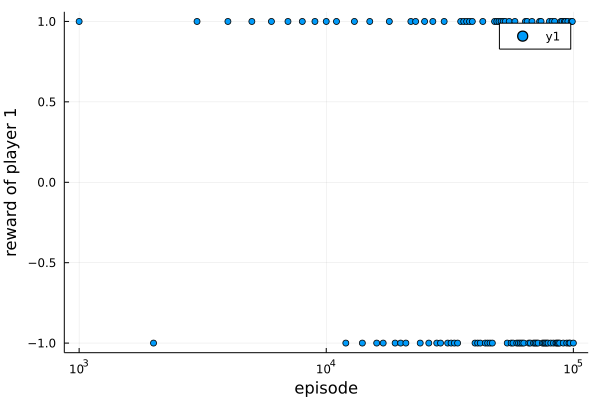
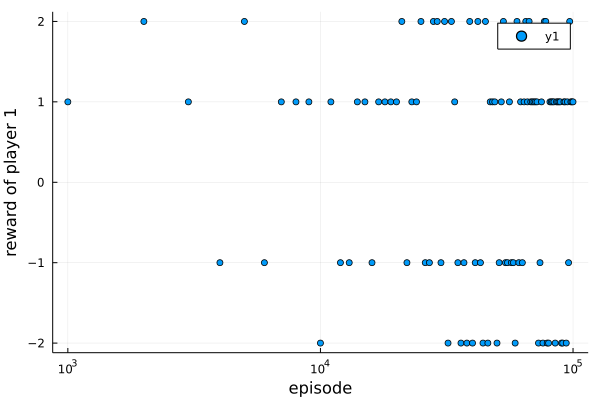
update the report

diff --git a/docs/homepage/blog/ospp_report_210370190/index.md b/docs/homepage/blog/ospp_report_210370190/index.md
@@ -16,7 +16,7 @@
                 "affiliationURL":"http://english.ecnu.edu.cn/"
             }
         ],
-        "publishedDate":"2021-08-17",
+        "publishedDate":"2021-08-28",
         "citationText":"Peter Chen, 2021"
     }"""
 
@@ -40,7 +40,7 @@ Recent advances in reinforcement learning led to many breakthroughs in artificia
 
 ### Accomplished Work
 
-From July 1st to now, I have implemented the **Neural Fictitious Self-play(NFSP)**, **Multi-agent Deep Deterministic Policy Gradient(MADDPG)** algorithms in [ReinforcementLearningZoo.jl](https://juliareinforcementlearning.org/docs/rlzoo/). Some workable experiments([`NFSP_KuhnPoker`](https://juliareinforcementlearning.org/docs/experiments/experiments/NFSP/JuliaRL_NFSP_KuhnPoker/#JuliaRL\\_NFSP\\_KuhnPoker), [`MADDPG_KuhnPoker`](https://juliareinforcementlearning.org/docs/experiments/experiments/Policy%20Gradient/JuliaRL_MADDPG_KuhnPoker/#JuliaRL\\_MADDPG\\_KuhnPoker), [`MADDPG_SpeakerListener`(**in progress**)], ...) are also added to the documentation. Related commits are listed below:
+From July 1st to now, I have implemented the **Neural Fictitious Self-play(NFSP)**, **Multi-agent Deep Deterministic Policy Gradient(MADDPG)** algorithms in [ReinforcementLearningZoo.jl](https://juliareinforcementlearning.org/docs/rlzoo/). Some workable experiments([`NFSP_KuhnPoker`](https://juliareinforcementlearning.org/docs/experiments/experiments/NFSP/JuliaRL_NFSP_KuhnPoker/#JuliaRL\\_NFSP\\_KuhnPoker), [`MADDPG_KuhnPoker`](https://juliareinforcementlearning.org/docs/experiments/experiments/Policy%20Gradient/JuliaRL_MADDPG_KuhnPoker/#JuliaRL\\_MADDPG\\_KuhnPoker), [`MADDPG_SpeakerListener`](https://juliareinforcementlearning.org/docs/experiments/experiments/Policy%20Gradient/JuliaRL_MADDPG_SpeakerListener/#JuliaRL\\_MADDPG\\_SpeakerListener), ...) are also added to the documentation. Besides, for testing the performance of **MADDPG** algorithm, I implemented [`SpeakerListenerEnv`](https://juliareinforcementlearning.org/docs/rlenvs/#ReinforcementLearningEnvironments.SpeakerListenerEnv-Tuple{}) in [ReinforcementLearningEnvironments.jl](https://juliareinforcementlearning.org/docs/rlenvs/). Related commits are listed below:
 
 - [add Base.:(==) and Base.hash for AbstractEnv and test nash_conv on KuhnPokerEnv#348](https://github.com/JuliaReinforcementLearning/ReinforcementLearning.jl/pull/348)
 - [Supplement functions in ReservoirTrajectory and BehaviorCloningPolicy #390](https://github.com/JuliaReinforcementLearning/ReinforcementLearning.jl/pull/390)
@@ -48,6 +48,7 @@ From July 1st to now, I have implemented the **Neural Fictitious Self-play(NFSP)
 - [correct nfsp implementation #439](https://github.com/JuliaReinforcementLearning/ReinforcementLearning.jl/pull/439)
 - [add MADDPG algorithm #444](https://github.com/JuliaReinforcementLearning/ReinforcementLearning.jl/pull/444)
 - [Update maddpg and the report #470](https://github.com/JuliaReinforcementLearning/ReinforcementLearning.jl/pull/470)
+- [Add the experiment of MADDPG. #481](https://github.com/JuliaReinforcementLearning/ReinforcementLearning.jl/pull/481)
 - ...
 
 ## 2. Implementation and Usage
@@ -288,8 +289,9 @@ The **Multi-agent Deep Deterministic Policy Gradient(MADDPG)**\dcite{DBLP:journa
 
 Given that the [`DDPGPolicy`](https://juliareinforcementlearning.org/docs/rlzoo/#ReinforcementLearningZoo.DDPGPolicy-Tuple{}) is already implemented in the ReinforcementLearningZoo.jl, I implement the [`MADDPGManager`](https://juliareinforcementlearning.org/docs/rlzoo/#ReinforcementLearningZoo.MADDPGManager) which is a special multi-agent manager that all agents apply `DDPGPolicy` with one **improved critic**. The structure of `MADDPGManager` is as the following:
 ```Julia
-mutable struct MADDPGManager{P<:DDPGPolicy, T<:AbstractTrajectory, N<:Any} <: AbstractPolicy
-    agents::Dict{<:N, <:Agent{<:NamedPolicy{<:P, <:N}, <:T}}
+mutable struct MADDPGManager <: AbstractPolicy
+    agents::Dict{<:Any, <:Agent}
+    traces
     batch_size::Int
     update_freq::Int
     update_step::Int
@@ -297,9 +299,18 @@ mutable struct MADDPGManager{P<:DDPGPolicy, T<:AbstractTrajectory, N<:Any} <: Ab
 end
 ```
 
-Each agent in the `MADDPGManager` uses `DDPGPolicy` with one trajectory, which collects their own information. Note that the policy of the `Agent` should be one `NamedPolicy`. [`NamedPolicy`](https://juliareinforcementlearning.org/docs/rlcore/#ReinforcementLearningCore.NamedPolicy) is a useful substruct of `AbstractPolicy` when meeting the multi-agent games, which combine the player's name and detailed policy. So that can use `Agent` 's [default behaviors](https://juliareinforcementlearning.org/docs/rlcore/#ReinforcementLearningCore.Agent-Tuple{AbstractStage,%20AbstractEnv}) to collect the necessary information. 
+Each agent in the `MADDPGManager` uses `DDPGPolicy` with one trajectory, which collects their own information. Note that the policy of the `Agent` should be wrapped with `NamedPolicy`. [`NamedPolicy`](https://juliareinforcementlearning.org/docs/rlcore/#ReinforcementLearningCore.NamedPolicy) is a useful substruct of `AbstractPolicy` when meeting the multi-agent games, which combine the player's name and detailed policy. So that can use `Agent` 's [default behaviors](https://juliareinforcementlearning.org/docs/rlcore/#ReinforcementLearningCore.Agent-Tuple{AbstractStage,%20AbstractEnv}) to collect the necessary information. 
 
 As for updating the policy, the process is mainly the same as the [`DDPGPolicy`](https://github.com/JuliaReinforcementLearning/ReinforcementLearning.jl/blob/master/src/ReinforcementLearningZoo/src/algorithms/policy_gradient/ddpg.jl#L139), apart from each agent's critic will assemble all agents' personal states and actions. For more details, you can refer to the [code](https://github.com/JuliaReinforcementLearning/ReinforcementLearning.jl/blob/master/src/ReinforcementLearningZoo/src/algorithms/policy_gradient/maddpg.jl#L59).
+
+**Note that** when calculating the loss of actor's behavior network, we should plus on the `reg` term to improve the performance of the algorithm, which is different from **DDPG**.
+```Julia
+gs2 = gradient(Flux.params(A)) do
+    v = C(vcat(s, mu_actions)) |> vec
+    reg = mean(A(batches[player][:state]) .^ 2)
+    -mean(v) +  reg * 1e-3 # loss
+end
+```
 
 #### Usage
 
@@ -354,18 +365,18 @@ policy = DDPGPolicy(
         model = create_critic(),
         optimizer = ADAM(),
     ),
-    γ = 0.99f0,
-    ρ = 0.995f0,
+    γ = 0.95f0,
+    ρ = 0.99f0,
     na = na,
     start_steps = 1000,
-    start_policy = RandomPolicy(-0.9..0.9; rng = rng),
+    start_policy = RandomPolicy(-0.99..0.99; rng = rng),
     update_after = 1000,
-    act_limit = 0.9,
-    act_noise = 0.1,
+    act_limit = 0.99,
+    act_noise = 0.,
     rng = rng,
 )
 trajectory = CircularArraySARTTrajectory(
-    capacity = 10000, # replay buffer capacity
+    capacity = 100_000, # replay buffer capacity
     state = Vector{Int} => (ns, ),
     action = Float32 => (na, ),
 )
@@ -378,9 +389,9 @@ agents = MADDPGManager(
         policy = NamedPolicy(player, deepcopy(policy)),
         trajectory = deepcopy(trajectory),
     )) for player in players(env) if player != chance_player(env)),
-    SARTS, # traces
-    128, # batch_size
-    128, # update_freq
+    SARTS, # trace's type
+    512, # batch_size
+    100, # update_freq
     0, # initial update_step
     rng
 )
@@ -390,4 +401,75 @@ Plus on the [`stop_condition`](https://github.com/JuliaReinforcementLearning/Rei
 
 \dfig{body;JuliaRL_MADDPG_KuhnPoker.png;Result of the experiment.}
 
-**Note that** since **MADDPG** is one deterministic algorithm, i.e., the state's response is one deterministic action, the Kuhn Poker game may not be suitable for testing the performance. In the next weeks, I'll update the algorithm and try to test it on other games.
+However, `KuhnPoker` is not good choice to show the performance of **MADDPG**. For testing the performance of the algorithm, I add [`SpeakerListenerEnv`](https://juliareinforcementlearning.org/docs/rlenvs/#ReinforcementLearningEnvironments.SpeakerListenerEnv-Tuple{}) into [ReinforcementLearningEnvironments.jl](https://juliareinforcementlearning.org/docs/rlenvs), which is a simple cooperative multi-agent game.
+
+Since two player have different dimensions of state and action in the `SpeakerListenerEnv`, the policy and the trajectory are customized as below:
+```Julia
+env = SpeakerListenerEnv()
+# network's parameter initialization method
+init = glorot_uniform(rng)
+# critic's input units, including both players' states and actions.
+critic_dim = sum(length(state(env, p)) + length(action_space(env, p)) for p in (:Speaker, :Listener))
+# actor and critic's network structure.
+create_actor(player) = Chain(
+    Dense(length(state(env, player)), 64, relu; init = init),
+    Dense(64, 64, relu; init = init),
+    Dense(64, length(action_space(env, player)); init = init)
+    )
+create_critic(critic_dim) = Chain(
+    Dense(critic_dim, 64, relu; init = init),
+    Dense(64, 64, relu; init = init),
+    Dense(64, 1; init = init),
+    )
+# concrete DDPGPolicy of the player.
+create_policy(player) = DDPGPolicy(
+    behavior_actor = NeuralNetworkApproximator(
+        model = create_actor(player),
+        optimizer = Flux.Optimise.Optimiser(ClipNorm(0.5), ADAM(1e-2)),
+    ),
+    behavior_critic = NeuralNetworkApproximator(
+        model = create_critic(critic_dim),
+        optimizer = Flux.Optimise.Optimiser(ClipNorm(0.5), ADAM(1e-2)),
+    ),
+    target_actor = NeuralNetworkApproximator(
+        model = create_actor(player),
+    ),
+    target_critic = NeuralNetworkApproximator(
+        model = create_critic(critic_dim),
+    ),
+    γ = 0.95f0,
+    ρ = 0.99f0,
+    na = length(action_space(env, player)),
+    start_steps = 0,
+    start_policy = nothing,
+    update_after = 512 * env.max_steps, # batch_size * env.max_steps
+    act_limit = 1.0,
+    act_noise = 0.,
+    )
+create_trajectory(player) = CircularArraySARTTrajectory(
+    capacity = 1_000_000, # replay buffer capacity
+    state = Vector{Float64} => (length(state(env, player)), ),
+    action = Vector{Float64} => (length(action_space(env, player)), ),
+    )
+```
+
+Based on the above policy and trajectory, we can design the corresponding `MADDPGManager`:
+```Julia
+agents = MADDPGManager(
+    Dict(
+        player => Agent(
+            policy = NamedPolicy(player, create_policy(player)),
+            trajectory = create_trajectory(player),
+        ) for player in (:Speaker, :Listener)
+    ),
+    SARTS, # trace's type
+    512, # batch_size
+    100, # update_freq
+    0, # initial update_step
+    rng
+)
+```
+
+Add the [`stop_condition`](https://github.com/JuliaReinforcementLearning/ReinforcementLearning.jl/blob/master/docs/experiments/experiments/Policy%20Gradient/JuliaRL_MADDPG_SpeakerListener.jl#L120) and designed [`hook`](https://github.com/JuliaReinforcementLearning/ReinforcementLearning.jl/blob/master/docs/experiments/experiments/Policy%20Gradient/JuliaRL_MADDPG_SpeakerListener.jl#L15), we can simply `run(agents, env, stop_condition, hook)` to run the experiment and use `Plots.plot` to the following result.
+
+\dfig{body;JuliaRL_MADDPG_SpeakerListener.png;Result of the experiment.}
